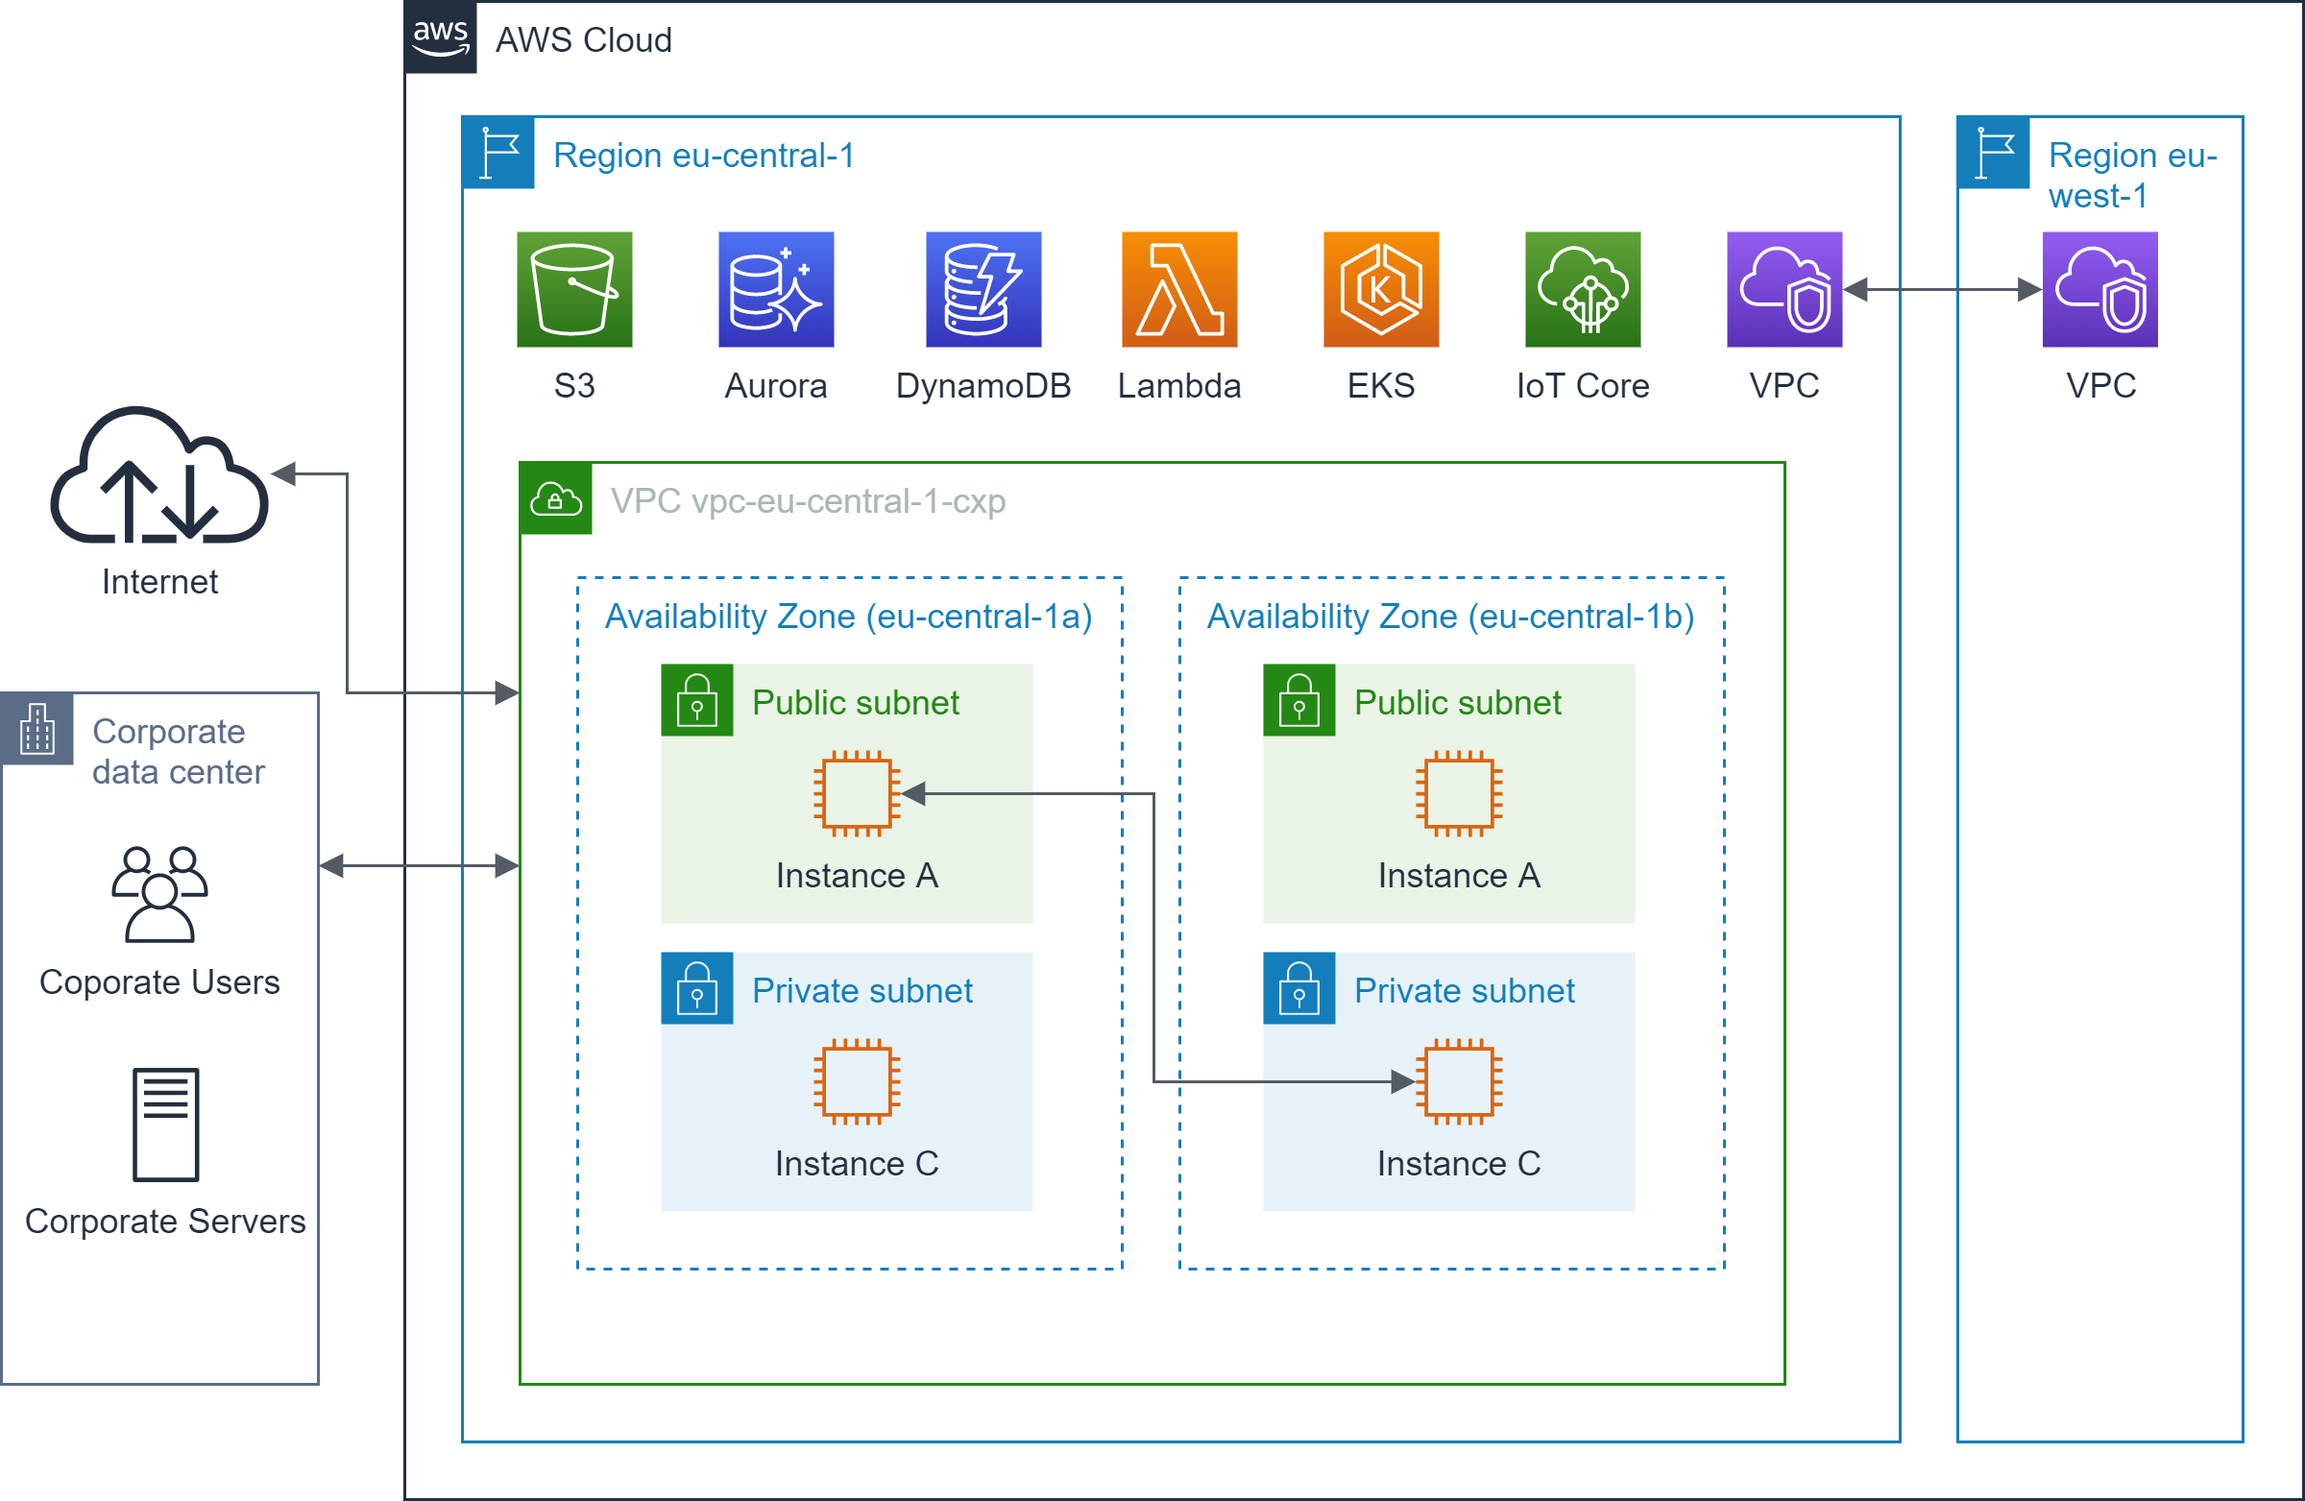
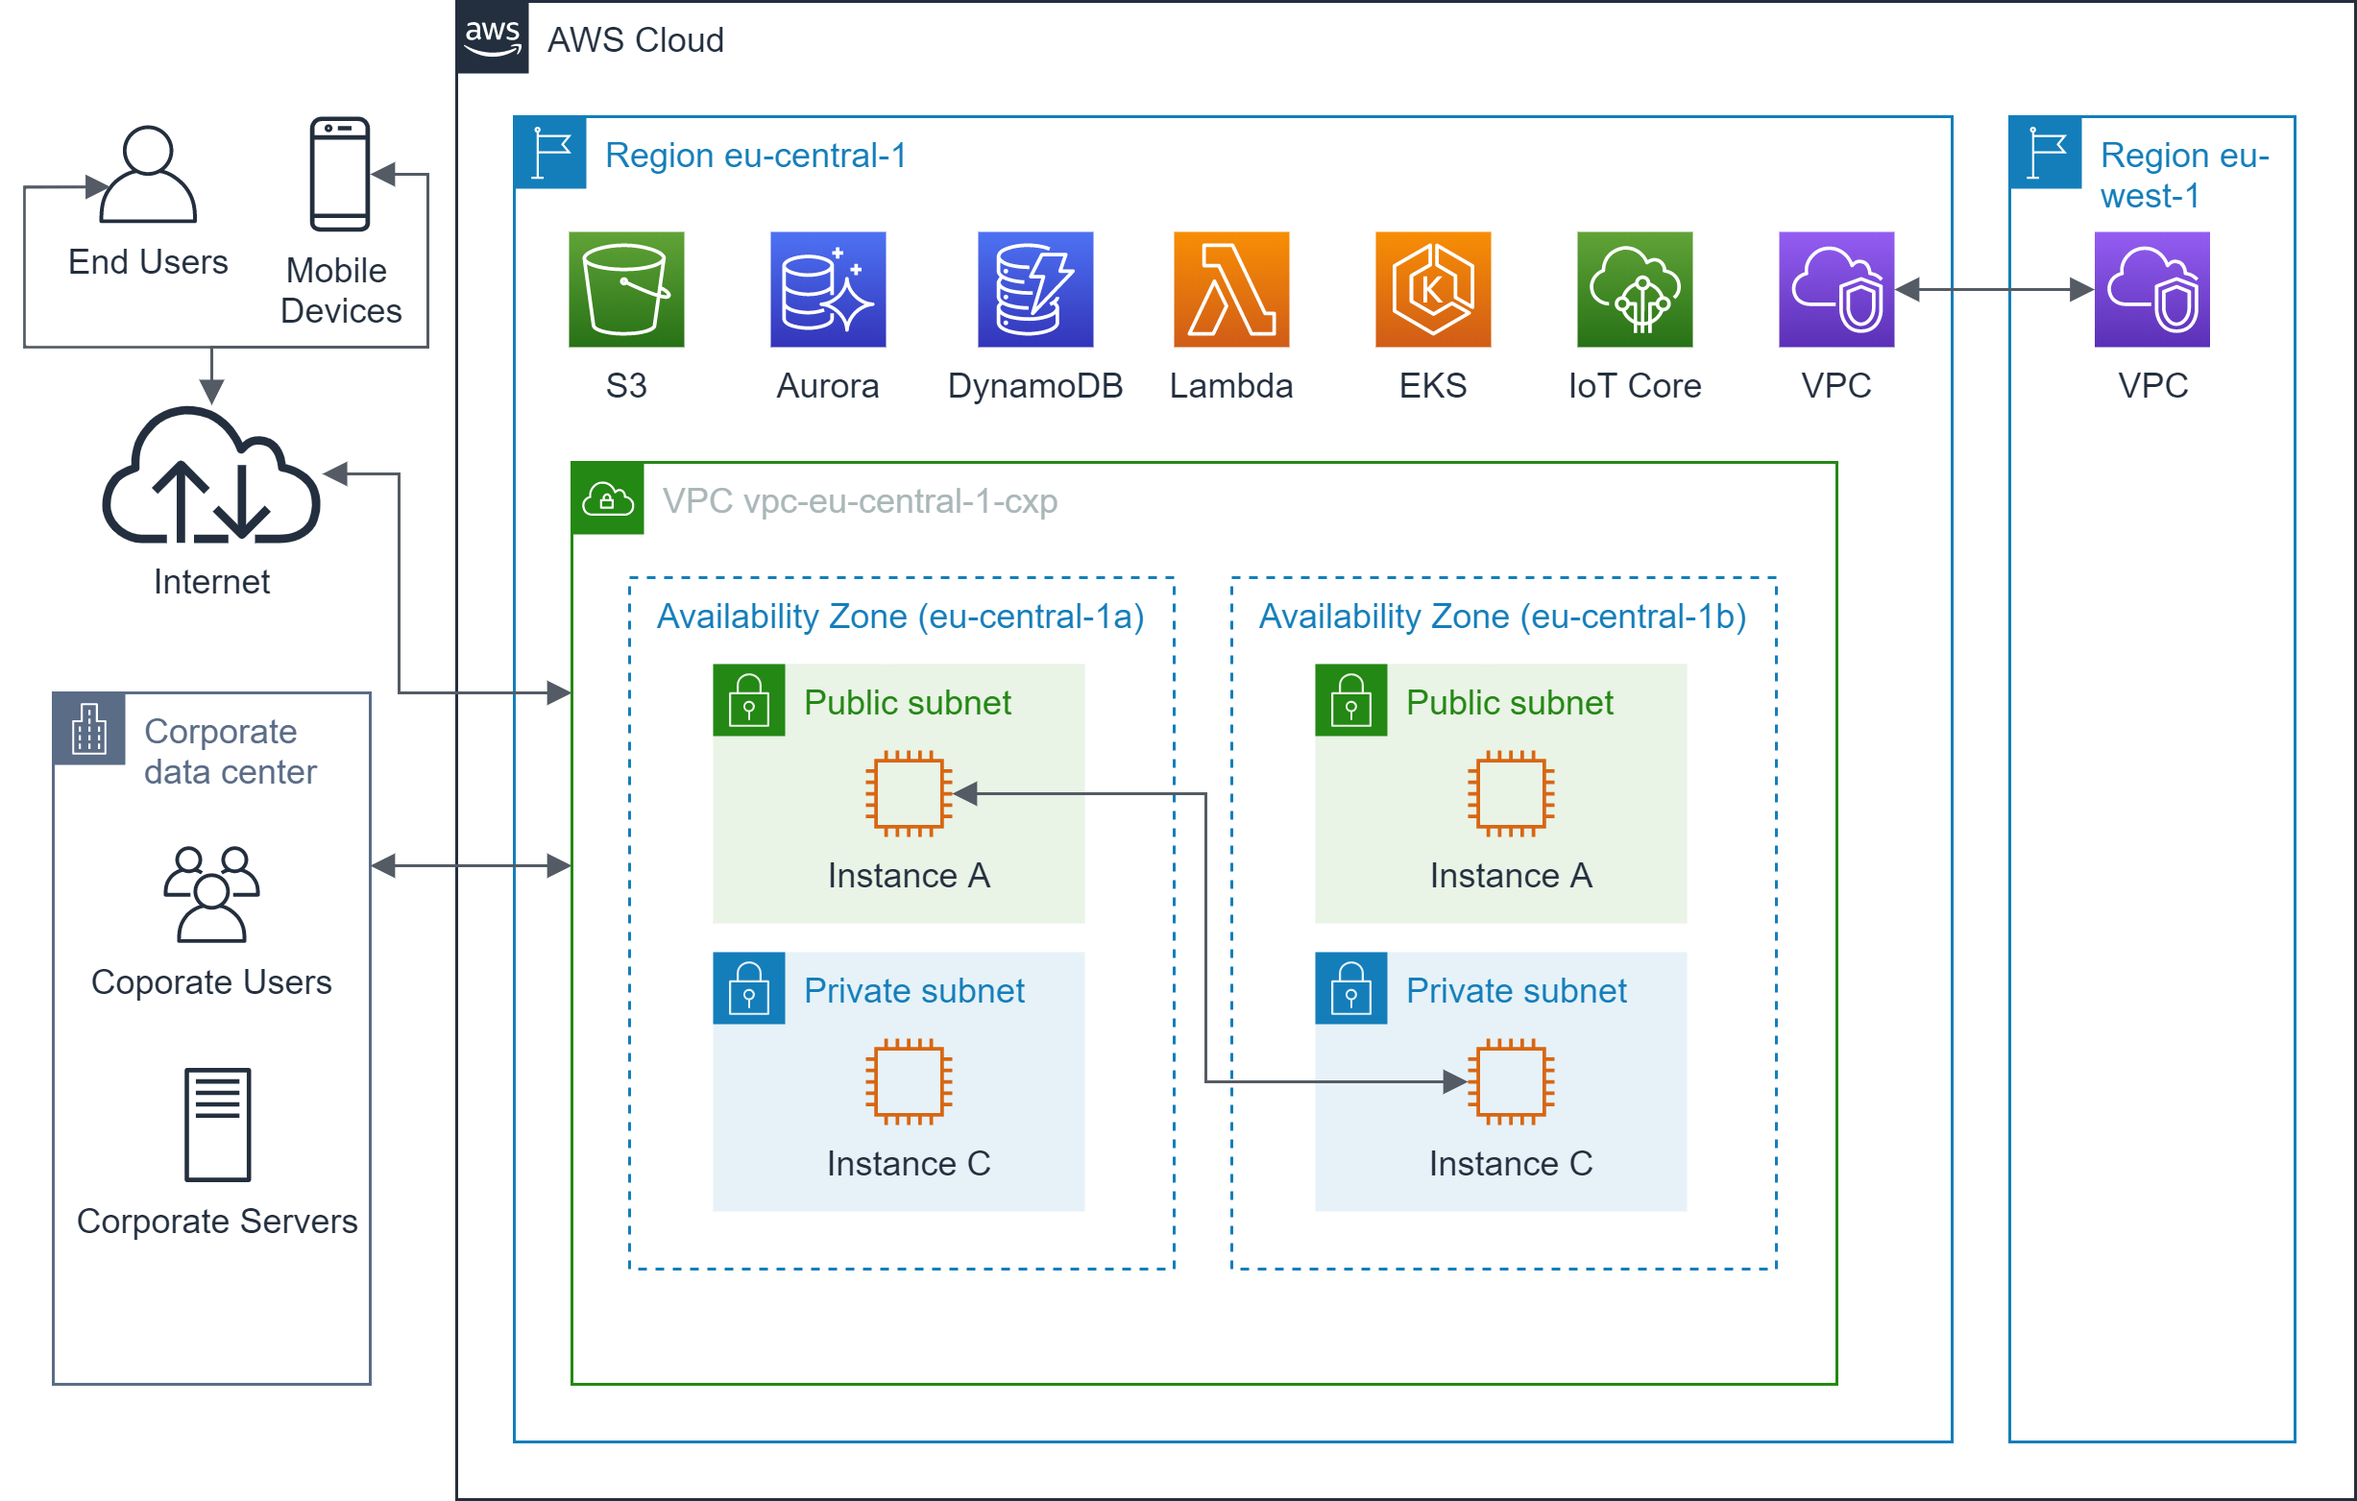
added AWS networking stuff

diff --git a/docs/aws/vpc/vpc_basics.md b/docs/aws/vpc/vpc_basics.md
@@ -35,7 +35,7 @@ A `virtual private cloud` is a virtual network that is tied to an AWS user accou
 
 Each AWS account provides a default VPC from the beginning.
 
-![aws_vpc.png](img/aws_vpc.png)
+![aws_vpc.png](img/aws_vpc_300dpi.png)
 
 A VPC spans all [availability zones](#availability-zone-az) in a [region](#region). 
 The IP address range - the so-called CIDR block - for all resources within the VPC must be defined when the VPC is created 
@@ -45,6 +45,14 @@ add a second CIDR block to it.
 
 @see [Virtual Private Cloud (VPC)](http://docs.aws.amazon.com/AmazonVPC/latest/UserGuide/VPC_Introduction.html)
 
+!!! info "Quotas for VPC"
+    VPCs per region: __5__.
+    
+    IPv4 CIDR blocks per VPC: __5__
+    
+    IPv6 CIDR blocks per VPC: __1__
+    
+ 
 ### Subnets
 
 VPCs can be subdivided further with the help of subnets. 
@@ -52,7 +60,7 @@ A subnet must be within a [VPC](#virtual-private-cloud-vpc) and within an [avail
 As with a VPC, the IP address range of the subnet must also be specified when it is created and cannot be changed later. 
 The subnet's CIDR block must be a subset of the VPC's CIDR block.
 
-![aws_subnet.png](img/aws_subnet.png)
+![aws_subnet.png](img/aws_subnet_300dpi.png)
 
 There are two types of subnets:
 
@@ -61,6 +69,9 @@ There are two types of subnets:
 
 By default, all subnets within a VPC can communicate with each other. 
 Restrictions can be defined via security groups and route tables.
+
+!!! info "Quota for subnets per VPC"
+    The default quota for subnets per VPC __200__.
 
 @see [Subnets](http://docs.aws.amazon.com/AmazonVPC/latest/UserGuide/VPC_Introduction.html)
 
@@ -76,7 +87,7 @@ Then this particular EC2 instance can only communicate with the outside world in
 Of course, a security group can be assigned to multiple instances. 
 In this way, instances with the same security requirements can be grouped into logical groups.
 
-![AWS Security Groups](img/aws_security_groups.png)
+![AWS Security Groups](img/aws_security_groups_300dpi.png)
 
 Example:
 
@@ -97,6 +108,26 @@ A security group can subsequently be changed either via the AWS console or the A
 Although it is possible to share security groups among VPCs, security groups are assigned to a VPC in general and can be used in all subnets of the VPC. 
  
 @see [Security Groups](http://docs.aws.amazon.com/AmazonVPC/latest/UserGuide/VPC_SecurityGroups.html)
+
+### Network Access Control Lists
+
+A `network ACL` is an optional layer of security for your VPC that acts like a firewall for subnets. 
+Your VPC comes with a default network ACL associated to all subnets which allows any inbound and outbound traffic. 
+You can create custom network ACL with more specific rules and associate to multiple subnets. 
+Each subnet can only be associated with one network ACL: if you attach a new one, the old one is removed.
+
+![AWS Network ACLs](img/aws_network_acls_300dpi.png)
+
+A network ACL consists of a numbered list of rules. Each rules is made up of the following parts:
+
+* __Rule number__ defines the order the rules are evaluated (from lowest to highest).
+* __Type__ of traffic (like SSH, HTTP).
+* __Protocol__ (like TCP, UDP) which has a standard protocol number. 
+* __Source__ defines the source (CIDR range) of the traffic for inbound rules.
+* __ Destination__ defines the destination (CIDR range) of the traffic for outbound rules.
+* __Allow/Deny__ determines whether to allow or deny the specified traffic.
+
+@see [Network ACLs](https://docs.aws.amazon.com/vpc/latest/userguide/vpc-network-acls.html)
 
 ### Route Tables
 
@@ -121,7 +152,7 @@ Destination | Target | Beschreibung
 10.0.0.0/16 | local  | Main route that routes connections from the subnet to all local destinations in the VPC
 0.0.0.0/0 | _Internet Gateway ID_ | Special route that routes all connections from the subnest to remote destinations on the internet through the given internet gateway
 
-![AWS Route Table mit Internet Gateway](img/aws_route_table_igw.png)
+![AWS Route Table mit Internet Gateway](img/aws_route_table_300dpi.png)
 
 __Beispiel__: Routing traffic from private subnets to the internet through NAT Gateway
 
@@ -142,7 +173,7 @@ The internet gateways has two tasks:
 * To provide a target for routes in routing tables, through which the traffic can be directed to the internet.
 * Hide public IP addresses of instances in the VPC from the internet via NAT (Network Address Translation).
 
-![AWS Internet Gateway](img/aws_internet_gateway.png)
+![AWS Internet Gateway](img/aws_internet_gateway_300dpi.png)
 
 !!! warning "Internet-bound traffic has to be routed explicitly"
     The internet gateway must be defined as a target in the route table of each public subnet, 
@@ -170,7 +201,7 @@ and offers the desired reliability and high availability.
     
 NAT instances or NAT gateways must be started in public subnets because they are supposed to communicate with the Internet. In order to guarantee a high level of reliability and at the same time optimize the traffic in your own VPC, a NAT instance or a NAT gateway should be provided for each availability zone.
 
-![AWS NAT Gateway Routing](img/aws_nat_gateway.png)
+![AWS NAT Gateway Routing](img/aws_nat_gateway_300dpi.png)
 
 !!! warning "Route all internet-bound traffic from private subnets through NAT using route tables" 
     In order for the private subnets to be able to communicate with the Internet in a secure way, the route tables of the private subnets must be adapted so that every connection directed to the Internet runs via the NAT instance or the NAT gateway in the same availability zone.
@@ -187,6 +218,10 @@ Unfortunately, EIPs are very rare: Usually, you can only reserve 5 EIPs in one r
 However, if you consider that an EIP is a public IPv4 address and we are living in a time 
 when we are slowly running out of IPv4 addresses, then this constraint understandable. 
 In exceptional cases, you can negotiate with AWS to increase this limit.
+
+!!! info "Quotas for EIPs"
+    EIPs per region: __5__.
+
 
 !!! tip "Use elastic IP to access AWS resources via SSH"
     By default, any outbound SSH traffic from the msg network is blocked.

diff --git a/docs/aws/vpc/vpc_2_vpc.md b/docs/aws/vpc/vpc_2_vpc.md
@@ -1,0 +1,65 @@
+# VPC to VPC communication
+
+## Motivation
+
+By default, each instance in your VPC has to use an AWS internet gateway to access 
+instances in other VPCs in the same or other regions via the internet. 
+Instances in private networks even had to pass a NAT
+gateway, although they never intended to reach the internet.
+
+![VPC 2 VPC](img/aws_vpc_2_vpc_igw.png)
+
+## VPC Peering
+
+A `VPC peering` connection is a private network connection between two VPC. 
+All traffic routed through this connection will stay inside the AWS network.
+Instances in either VPC con communicate which each other as if they were in the same VPC. 
+
+![VPC Peering](img/aws_vpc_2_vpc_peering.png)
+
+@see [What is VPC peering](https://docs.aws.amazon.com/vpc/latest/peering/what-is-vpc-peering.html)
+
+Traffic from an instance in the source VPC to the VPC peering connection has to be explicitly routed by
+adding a specific route to the route table of the subnet hosting the source instance.
+
+A VPC peering connection from a source VPC to a destination VPC has to be requested by the source VPC and to be approved by the destination VPC.
+
+!!! danger "Separate CIDR ranges required"
+    VPC peering does not support IP address mapping. Thus, the CIDR ranges of all VPCs participating 
+    in VPC peering must not overlap.
+    
+!!! info "VPC peering supports inter-region connections"
+    VPC peering connection may be used to connect VPC from different regions as well.
+        
+### VPC Interface Endpoints with AWS Private Link
+
+Similar to VPC to AWS services communication, an `interface endpoint` may be used to connect a VPC to another
+VPC using AWS Private Link. Only downside of this option is: the target has be to a network loadbalancer.
+
+![VPC Interface Endpoints](img/aws_vpc_2_vpc_private_link.png)
+
+Routing is done automatically by the elastic network interface without having to add a route to your subnet's route table.
+Of course, you have to attach the elastic network interface to your instance in order to use the interface endpoint.
+
+This setup only works uni-directional: Only the source VPC can send traffic to the destination VPC. Thus, this
+scenario is suitable for public services provided by the destination VPC which are supposed to be consumed by
+the source VPC.
+ 
+@see [Interface VPC endpoints](https://docs.aws.amazon.com/vpc/latest/userguide/vpce-interface.html)
+
+### AWS Transit Gateway
+
+A `transit gateway` is the silver bullet AWS service when it comes to connections between VPCs, 
+VPNs, corporate networks and the AWS network etc. By default, AWS transit gateway is a region-bound 
+service but inter-region connections may be established through transit gateway peering.
+
+![VPC Gateway Endpoints](img/aws_vpc_2_vpc_tgw.png)
+
+As with gateway endpoints, traffic must be explicitly routed from source subnets to the AWS transit gateway 
+by adding a specific route to the source subnet's route table.
+
+!!! info "AWS Transit Gateway supports address mapping"
+    Best thing about AWS transit gateway is that it supports IP address translation, if the CIDR blocks 
+    of the source VPC and the destination network should overlap.
+    
+@see [What is a transit gateway?](https://docs.aws.amazon.com/vpc/latest/tgw/what-is-transit-gateway.html)

diff --git a/docs/aws/vpc/vpc_2_aws_services.md b/docs/aws/vpc/vpc_2_aws_services.md
@@ -1,0 +1,52 @@
+# VPC to AWS services communication
+
+## Motivation
+
+By default, each instance in your VPC has to use an AWS internet gateway to access 
+AWS services in the same region. Instances in private networks even had to pass a NAT
+gateway, although they never intended to reach the internet.
+
+![VPC 2 AWS Services](img/vpc_2_services_igw.png)
+
+## VPC Endpoints (VPCE)
+
+A `VPC endpoint` allows you to privately connect to AWS services and other VPC endpoint services supported by AWS Private Link
+without requiring to route your traffic through an internet gateway, NAT gateway or NAT instance. 
+Privately means that traffic between your VPC and the destination service does not leave the AWS network (which is what AWS Private Link actually does).
+
+There are two types of VPC endpoints:
+
+* Interface endpoints
+* Gateway endpoints
+
+In most cases the service you want to access determines the type of VPC endpoint you have to create.
+
+@see [VPC endpoints](https://docs.aws.amazon.com/vpc/latest/userguide/vpc-endpoints.html)
+
+### VPC Interface Endpoints
+
+An `interface endpoint` is an elastic network interface (ENI) with a private IP address from the CIDR range of your subnet
+that hosts the entry point to the supported service.
+
+![VPC Interface Endpoints](img/aws_vpc_interface_endpoint.png)
+
+Routing is done automatically by the elastic network interface without having to add a route to your subnet's route table.
+Of course, you have to attach the elastic network interface to your instance in order to use the interface endpoint.
+
+> More than __40__ AWS services are supported by AWS Private Link now!
+ 
+@see [Interface VPC endpoints](https://docs.aws.amazon.com/vpc/latest/userguide/vpce-interface.html)
+
+### VPC Gateway Endpoints
+
+A `gateway endpoint` is a gateway that you must specify as a target for a route in your subnet's route table. 
+Gateway endpoint were actually available before interface endpoints.
+
+The following AWS services are supported:
+
+* Amazon S3
+* Dynamo DB
+
+![VPC Gateway Endpoints](img/aws_vpc_gateway_endpoint.png)
+
+@see [Gateway VPC endpoints](https://docs.aws.amazon.com/vpc/latest/userguide/vpce-gateway.html)

diff --git a/docs/aws/vpc/vpc_extended_networking.md b/docs/aws/vpc/vpc_extended_networking.md
@@ -1,0 +1,15 @@
+# VPC Extended Networking: Ways to get into and out of your VPC
+
+## Overview
+
+In most non-trivial use cases, a single VPC is never an island but needs to communicate
+with other AWS services, AWS VPC or coporate networks as well:
+
+![](img/aws_vpc_to_services_300dpi.png)
+
+* Instances in your VPC need to talk to AWS services in the same region [VPC to AWS services communication](vpc_2_aws_services.md).
+* Instances in your VPC need to talk to instances in other VPCs in the same or other regions [VPC to VPC communication](vpc_2_vpc.md).
+* End users and mobile devices need to access your AWS services or instances from the internet
+* Corporate users in corporate networks need to access your AWS services or instance through VPN tunnels 
+via the internet or without using the internet at all.
+* Corporate servers must talk to your AWS resources and vice versa.

diff --git a/docs/aws/vpc/vpc_blueprint.md b/docs/aws/vpc/vpc_blueprint.md
@@ -5,7 +5,7 @@ Of course, you are free to tailor the blueprint to your own requirements.
 
 ## Overview
 
-![AWS VPC Blueprint](img/aws_vpc_blueprint.png)
+![AWS VPC Blueprint](img/aws_vpc_blueprint_300dpi.png)
 
 ### VPC spans all availability zones
 
